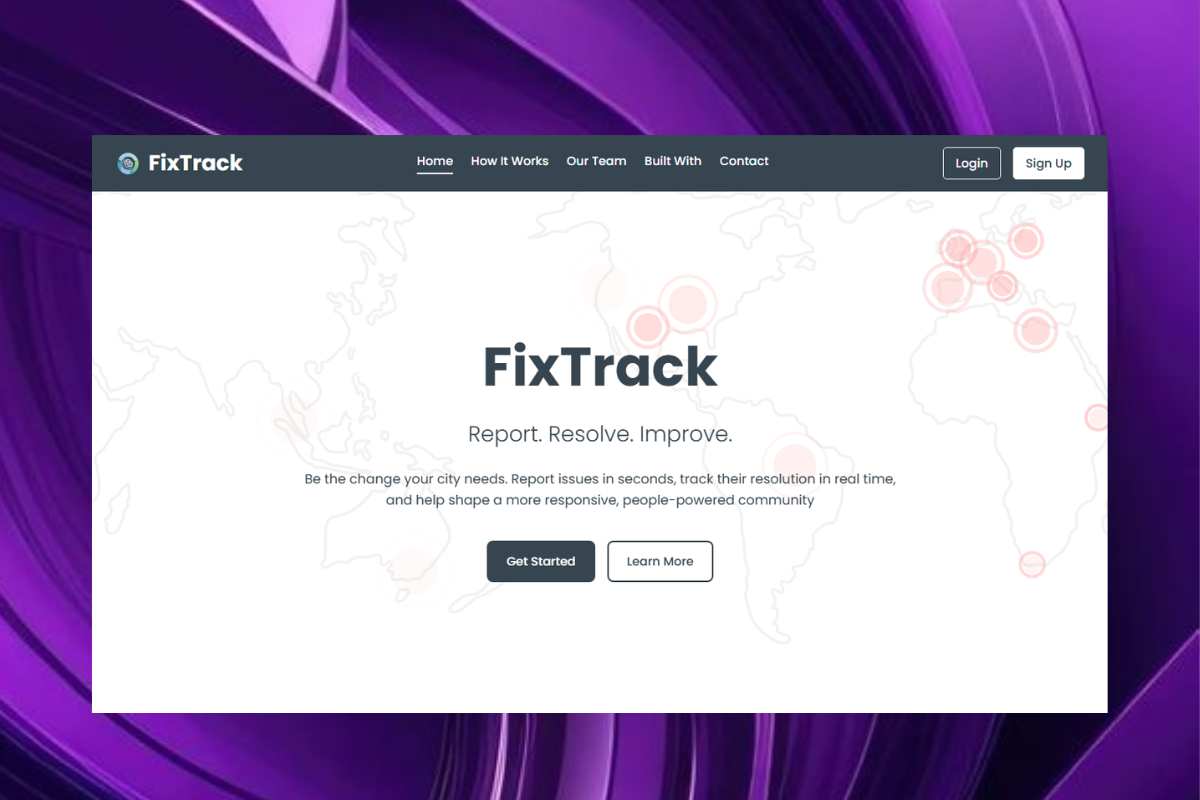
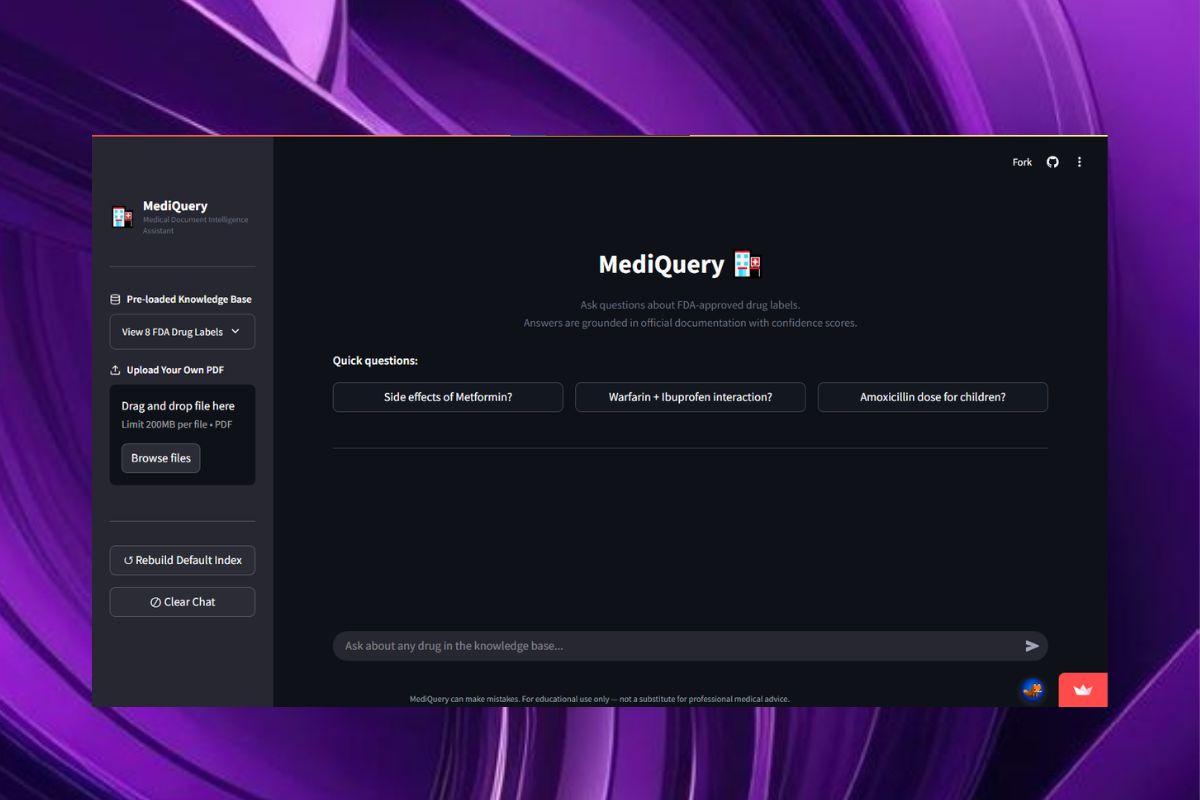
Updated Projects Section & fixed Image for 3rd Project

diff --git a/index.html b/index.html
@@ -261,23 +261,28 @@
                     <div class="project-card">
                         <div class="project-inner relative h-full">
                             <div class="project-front bg-slate-800 rounded-xl overflow-hidden border border-slate-700 h-full">
-                                <img src="assets/project/project_2.png" alt="AI Hotel Management System" class="w-full h-48 object-cover">
+                                <img src="assets/project/project_2.png" alt="EEG Brain Signal Classifier" class="w-full h-48 object-cover">
                                 <div class="p-6">
-                                    <h3 class="text-xl font-bold mb-2">AI Hotel Management System</h3>
-                                    <p class="text-slate-300 text-sm mb-4">An intelligent hotel management platform with automated booking, customer analytics, and real-time monitoring.</p>
+                                    <h3 class="text-xl font-bold mb-2">EEG Brain Signal Classifier</h3>
+                                    <p class="text-slate-300 text-sm mb-4">
+                                        A machine learning-based EEG signal classification system designed to analyze and classify brainwave patterns from EEG datasets.
+                                    </p>
                                     <div class="flex flex-wrap gap-2">
                                         <span class="px-2 py-1 bg-blue-900/50 text-blue-300 rounded text-xs">Python</span>
-                                        <span class="px-2 py-1 bg-red-900/50 text-red-300 rounded text-xs">Streamlit</span>
-                                        <span class="px-2 py-1 bg-indigo-900/50 text-indigo-300 rounded text-xs">MySQL</span>
-                                        <span class="px-2 py-1 bg-blue-950 text-blue-500 rounded text-xs">Pandas</span>
+                                        <span class="px-2 py-1 bg-green-900/50 text-green-300 rounded text-xs">Machine Learning</span>
+                                        <span class="px-2 py-1 bg-purple-900/50 text-purple-300 rounded text-xs">EEG</span>
+                                        <span class="px-2 py-1 bg-pink-900/50 text-pink-300 rounded text-xs">Scikit-learn</span>
                                     </div>
                                 </div>
                             </div>
-                            <div class="project-back absolute inset-0 bg-gradient-to-br from-indigo-600 to-teal-700 rounded-xl p-6 flex flex-col justify-center items-center text-center">
-                                <h3 class="text-xl font-bold mb-2">AI Hotel Management System</h3>
-                                <p class="text-slate-100 text-sm mb-4">Streamlines hotel operations with AI-powered booking, customer management, and analytics tools.</p>
+
+                            <div class="project-back absolute inset-0 bg-gradient-to-br from-indigo-600 to-cyan-700 rounded-xl p-6 flex flex-col justify-center items-center text-center">
+                                <h3 class="text-xl font-bold mb-2">EEG Brain Signal Classifier</h3>
+                                <p class="text-slate-100 text-sm mb-4">
+                                    Intelligent EEG analysis platform that processes brainwave signals and applies machine learning models for accurate signal classification and pattern recognition.
+                                </p>
                                 <div class="flex flex-wrap justify-center gap-2">
-                                    <a href="https://github.com/Muhammad-Ahmed-Rayyan/AI-Hotel-Management-System" target="_blank" rel="noopener noreferrer" class="px-4 py-2 bg-gray-800 text-white rounded-full text-sm font-semibold hover:bg-gray-700 transition flex items-center">
+                                    <a href="https://github.com/Muhammad-Ahmed-Rayyan/EEG-Brain-Signal-Classifier" target="_blank" rel="noopener noreferrer" class="px-4 py-2 bg-gray-800 text-white rounded-full text-sm font-semibold hover:bg-gray-700 transition flex items-center">
                                         <i class="fab fa-github mr-1"></i> Code
                                     </a>
                                 </div>
@@ -288,7 +293,7 @@
                     <div class="project-card">
                         <div class="project-inner relative h-full">
                             <div class="project-front bg-slate-800 rounded-xl overflow-hidden border border-slate-700 h-full">
-                                <img src="assets/project/project_4.png" alt="MediQuery RAG - AI Medical Assistant" class="w-full h-48 object-cover">
+                                <img src="assets/project/project_3.png" alt="MediQuery RAG - AI Medical Assistant" class="w-full h-48 object-cover">
                                 <div class="p-6">
                                     <h3 class="text-xl font-bold mb-2">MediQuery RAG</h3>
                                     <p class="text-slate-300 text-sm mb-4">
@@ -297,9 +302,7 @@
                                     <div class="flex flex-wrap gap-2">
                                         <span class="px-2 py-1 bg-yellow-600/50 text-yellow-400 rounded text-xs">Python</span>
                                         <span class="px-2 py-1 bg-green-900/50 text-green-300 rounded text-xs">LangChain</span>
-                                        <span class="px-2 py-1 bg-blue-900/50 text-blue-300 rounded text-xs">FAISS</span>
                                         <span class="px-2 py-1 bg-pink-900/50 text-pink-300 rounded text-xs">Streamlit</span>
-                                        <span class="px-2 py-1 bg-purple-900/50 text-purple-300 rounded text-xs">OpenAI</span>
                                         <span class="px-2 py-1 bg-orange-600/50 text-orange-400 rounded text-xs">RAG</span>
                                     </div>
                                 </div>
@@ -311,13 +314,15 @@
                                     Intelligent medical assistant leveraging Retrieval-Augmented Generation to retrieve relevant medical knowledge and generate accurate, context-aware responses for healthcare-related queries.
                                 </p>
                                 <div class="flex flex-wrap justify-center gap-2">
+                                    <a href="https://mediquery-rag.streamlit.app" class="px-4 py-2 bg-white text-blue-600 rounded-full text-sm font-semibold hover:bg-blue-50 transition">Live Demo</a>
                                     <a href="https://github.com/Muhammad-Ahmed-Rayyan/mediquery-rag" target="_blank" rel="noopener noreferrer" class="px-4 py-2 bg-gray-800 text-white rounded-full text-sm font-semibold hover:bg-gray-700 transition flex items-center">
                                         <i class="fab fa-github mr-1"></i> Code
                                     </a>
                                 </div>
                             </div>
                         </div>
-                    </div>                </div>
+                    </div>                
+                </div>
                 <!-- More Basic Projects Section -->
                 <div class="mt-20">
                     <h3 class="text-2xl md:text-3xl font-bold mb-8 text-center">More <span class="gradient-text">Projects</span></h3>
@@ -348,7 +353,6 @@
                                 <div class="flex flex-wrap items-center justify-between mt-auto gap-2">
                                     <div class="flex flex-wrap gap-1">
                                         <span class="px-2 py-0.5 bg-blue-900/50 text-blue-300 rounded text-xs">React</span>
-                                        <span class="px-2 py-0.5 bg-yellow-600/50 text-yellow-400 rounded text-xs">TypeScript</span>
                                         <span class="px-2 py-0.5 bg-orange-600/50 text-orange-400 rounded text-xs">Firebase</span>
                                     </div>
                                     <a href="https://github.com/Muhammad-Ahmed-Rayyan/FixTrack" target="_blank" rel="noopener noreferrer" class="shrink-0 px-2 py-1 bg-gray-800 text-white rounded-full text-xs font-semibold hover:bg-neutral-950 transition flex items-center">
@@ -379,14 +383,17 @@
                         <!-- Basic Project Card 4 -->
                         <div class="basic-project-card bg-slate-800 rounded-xl overflow-hidden border border-slate-700 hover:border-slate-500 transition-colors duration-300 flex flex-col h-full">
                             <div class="p-4 flex flex-col flex-grow">
-                                <h4 class="font-bold mb-2 truncate">EEG Brain Signal Classifier</h4>
-                                <p class="text-slate-400 text-xs mb-3 flex-grow">A deep learning model for classifying EEG brainwave signals, enabling insights for neuroscience and medical research.</p>
+                                <h4 class="font-bold mb-2 truncate">AI Hotel Management System</h4>
+                                <p class="text-slate-400 text-xs mb-3 flex-grow">
+                                    An intelligent hotel management platform featuring automated booking, customer analytics, and real-time operational monitoring.
+                                </p>
                                 <div class="flex flex-wrap items-center justify-between mt-auto gap-2">
                                     <div class="flex flex-wrap gap-1">
                                         <span class="px-2 py-1 bg-blue-900/50 text-blue-300 rounded text-xs">Python</span>
-                                        <span class="px-2 py-1 bg-purple-900/50 text-purple-300 rounded text-xs">Joblib</span>
+                                        <span class="px-2 py-1 bg-red-900/50 text-red-300 rounded text-xs">Streamlit</span>
+                                        <span class="px-2 py-1 bg-indigo-900/50 text-indigo-300 rounded text-xs">MySQL</span>
                                     </div>
-                                    <a href="https://github.com/Muhammad-Ahmed-Rayyan/EEG-Brain-Signal-Classifier" target="_blank" rel="noopener noreferrer" class="shrink-0 px-2 py-1 bg-gray-800 text-white rounded-full text-xs font-semibold hover:bg-neutral-950 transition flex items-center">
+                                    <a href="https://github.com/Muhammad-Ahmed-Rayyan/AI-Hotel-Management-System" target="_blank" rel="noopener noreferrer" class="shrink-0 px-2 py-1 bg-gray-800 text-white rounded-full text-xs font-semibold hover:bg-neutral-950 transition flex items-center">
                                         <i class="fab fa-github text-xs mr-1"></i> Star
                                     </a>
                                 </div>
